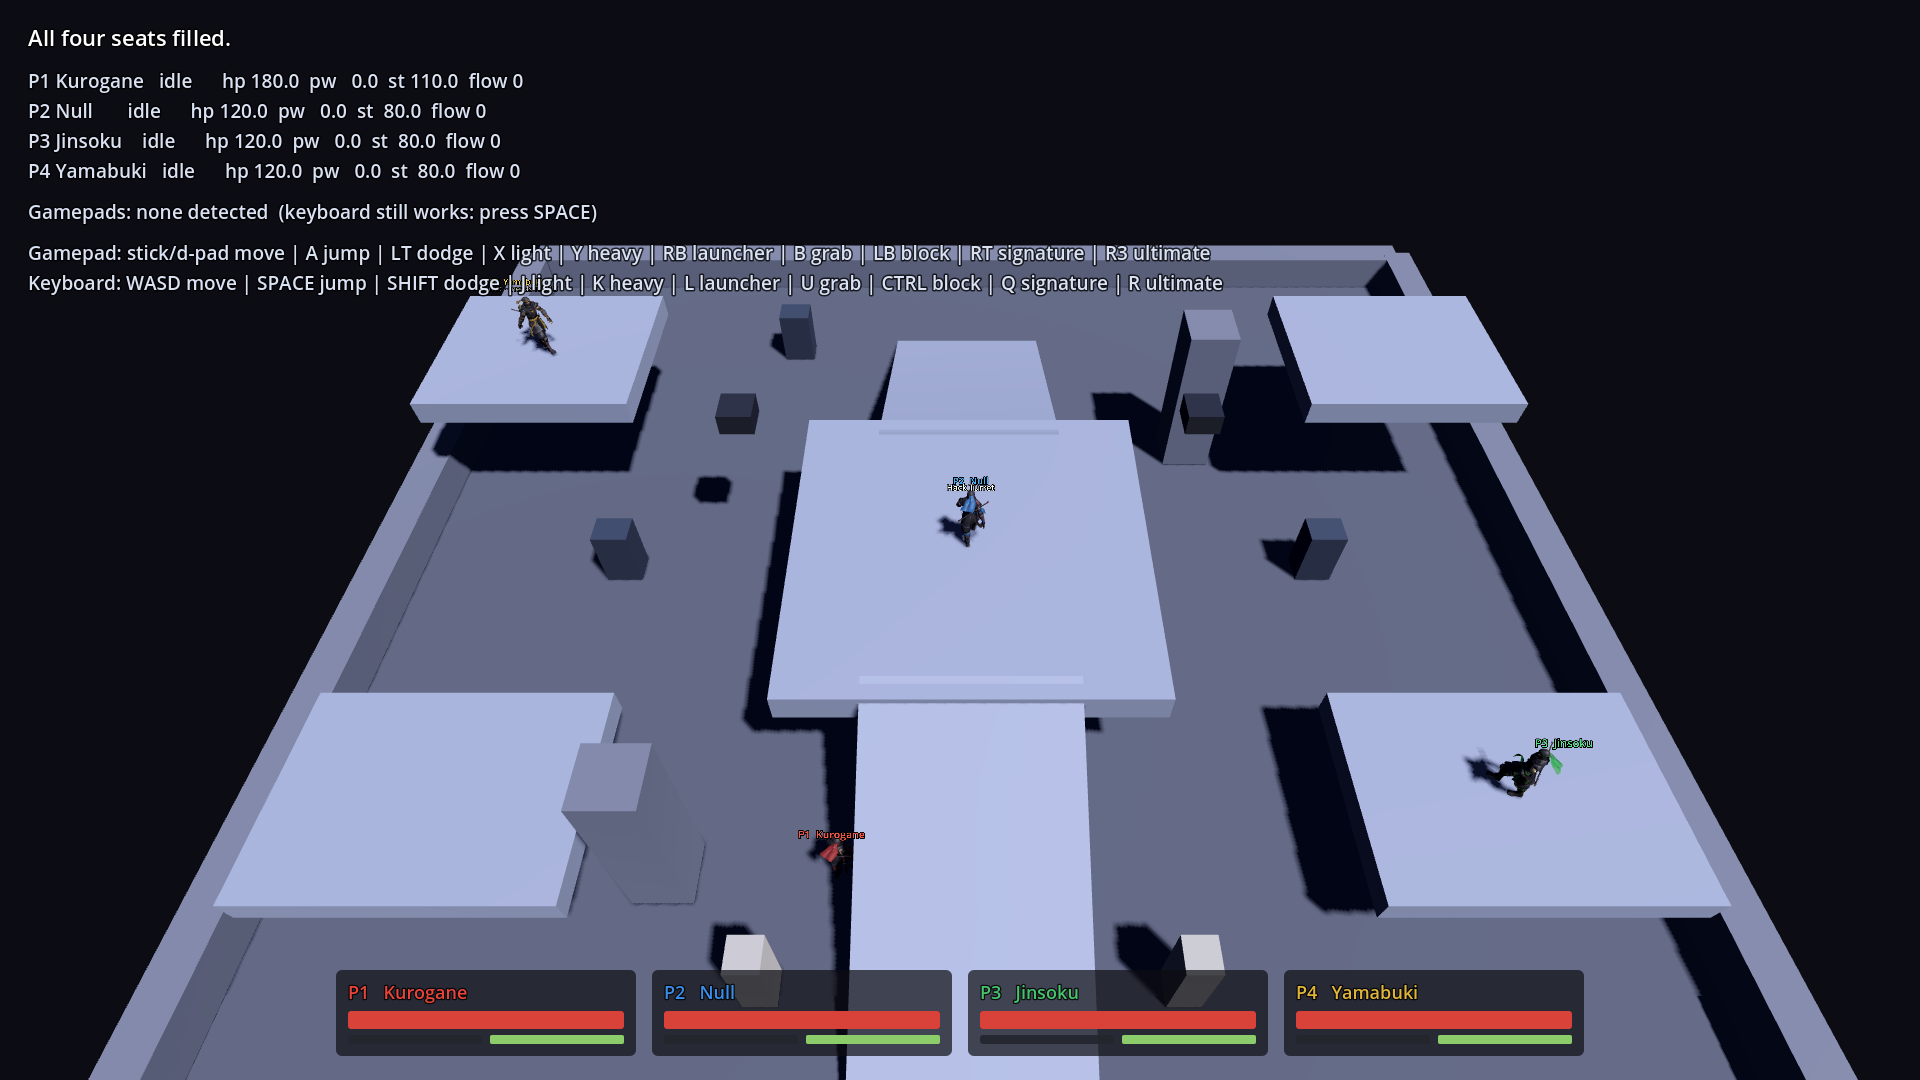
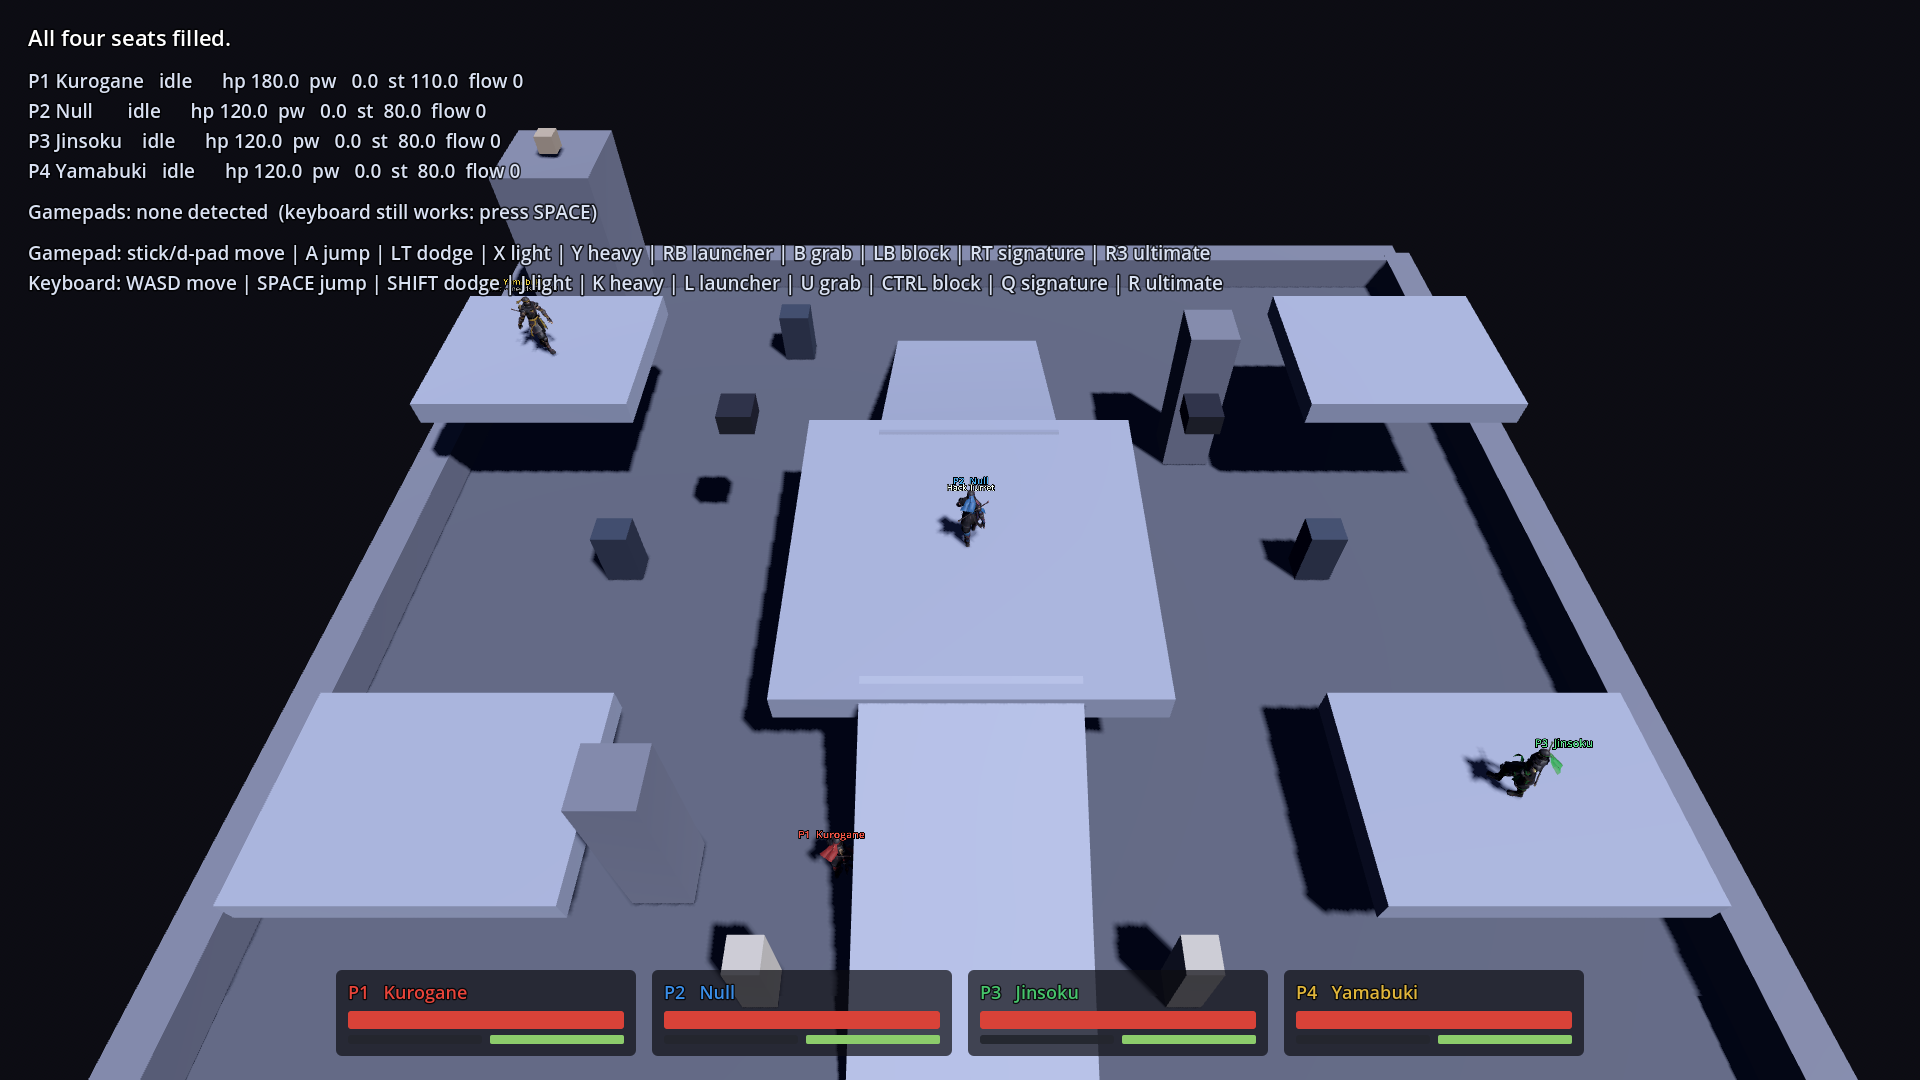
M3: climbing completes the stat-gated arena
Adds the AGILITY verb, and with it every specialist now owns exactly one
thing nobody else can do: Kurogane lifts, Null hacks, Yamabuki climbs.

- Climbable wall surfaces with a mantle at the top, gated at AGILITY 4
  rather than 3. Double jumping already keys off AGILITY 3, so gating the
  climb there would have handed three of the four characters a taller
  version of what they already had.
- A 7m comms tower, past any double jump from the floor, with debris on top
  that is therefore reachable one way only.

Three things this turned up, all of which would have read as 'climbing is
broken' rather than as anything visible in the code:

- Climbing fought the body solver. A tick of climbing covers less ground
  than move_and_slide's floor-snap distance, so snapping dragged the fighter
  back down every frame and the climb went nowhere. Climbing sets the
  transform directly and now skips the solver outright.
- The press that starts a climb also ended it: the same INTERACT edge was
  still just-pressed when the climb state read it as 'let go'. The state
  ignores that input on its entry tick.
- A mantle has to place the fighter, not launch them. Popping up and forward
  with velocity lost its forward momentum to air drag within three ticks of
  a neutral stick, dropping them back down the wall.

Changed region(s): [[0.25, 0.1222, 0.3438, 0.275]]

diff --git a/docs/ROADMAP.md b/docs/ROADMAP.md
@@ -158,7 +158,7 @@ builder. Naming a slice of it in an `AttackDef` is all that connects it to a mov
 
 ---
 
-## M3 — Stats and the interactive arena — **MOSTLY COMPLETE**
+## M3 — Stats and the interactive arena — **COMPLETE**
 **Risk under test:** does stat-gated interaction read as cool rather than arbitrary?
 
 - [x] `CharacterDef` resource with the six stats
@@ -167,7 +167,7 @@ builder. Naming a slice of it in an `AttackDef` is all that connects it to a mov
 - [x] Breakable, spawning debris anyone can then throw
 - [x] Hackable turrets that fire on everyone but the hacker
 - [x] Interaction probe + contextual prompt, **including denied prompts**
-- [ ] Climbable: mantle, wall-climb — still outstanding
+- [x] Climbable walls with a mantle at the top
 
 **Playable result:** the arena is a weapon, and which weapon depends on who you
 picked.
@@ -178,15 +178,16 @@ Every interactable is gated to exactly one of the four staged characters, or to
 everyone. That is the whole teaching design: you learn the system by being
 refused, and learn the roster by seeing what you are refused.
 
-| | Pillar (STR 4) | Rack (STR 2) | Turret (TECH 3) | Debris (STR 1) |
-|---|---|---|---|---|
-| **Kurogane** STR 5 / TECH 1 | ✓ | ✓ | — | ✓ |
-| **Null** STR 1 / TECH 5 | — | — | ✓ | ✓ |
-| **Jinsoku** STR 2 | — | ✓ | — | ✓ |
-| **Yamabuki** STR 2 | — | ✓ | — | ✓ |
+| | Pillar (STR 4) | Rack (STR 2) | Turret (TECH 3) | Tower (AGI 4) | Debris (STR 1) |
+|---|---|---|---|---|---|
+| **Kurogane** STR 5 / AGI 2 / TECH 1 | ✓ | ✓ | — | — | ✓ |
+| **Null** STR 1 / AGI 3 / TECH 5 | — | — | ✓ | — | ✓ |
+| **Jinsoku** STR 2 / AGI 3 | — | ✓ | — | — | ✓ |
+| **Yamabuki** STR 2 / AGI 5 | — | ✓ | — | ✓ | ✓ |
 
-Null is the only character who can hack, and the only one who can neither lift a
-pillar nor break a rack. A STRENGTH 1 fighter who loses every straight exchange
+Each of the three specialists owns exactly one verb nobody else has: Kurogane
+lifts, Null hacks, Yamabuki climbs. Null is also the only one who can neither
+lift a pillar nor break a rack. A STRENGTH 1 fighter who loses every straight exchange
 can still turn the room's turrets on everyone else, which is what makes the
 stat spread worth playing rather than merely worth reading.
 
@@ -206,6 +207,11 @@ stat spread worth playing rather than merely worth reading.
 - **Turrets are hacked at range.** They hang from the ceiling, and requiring the
   hacker to climb up and touch one would be bad fiction and — as the tests
   caught — physically unreachable for the one character meant to use them.
+- **Climbing is pitched at AGILITY 4, not 3.** Double jumping already keys off
+  AGILITY 3, so gating the climb there would have given three of the four
+  characters a taller version of what they already had. At 4 it belongs to the
+  acrobat alone, and the comms tower is 7m — beyond any double jump from the
+  floor — so the thing on top of it is reachable one way only.
 - **Carrying costs speed and your fists.** A pillar is a decision, not a free
   upgrade: you move at 62% speed and cannot attack until you throw it.
 - **Dying returns what you were holding.** Otherwise a heavy prop could be
@@ -213,6 +219,18 @@ stat spread worth playing rather than merely worth reading.
 
 ### What M3 turned up
 
+- **Climbing fought the body solver.** A tick of climbing covers less ground
+  than `move_and_slide`'s floor-snap distance, so snapping dragged the fighter
+  back down every frame and the climb went nowhere. Climbing sets the transform
+  directly, so it now skips the solver outright.
+- **The press that starts a climb also ended it.** The same INTERACT edge that
+  put a fighter on the wall was still just-pressed when the climb state read it
+  as "let go", so the fighter bounced straight off. The state ignores that input
+  on its entry tick.
+- **A mantle has to place you, not launch you.** Popping the fighter up and
+  forward with velocity lost its forward momentum to air drag within three ticks
+  of a neutral stick, dropping them back down the wall. The mantle now puts them
+  on the surface.
 - **A check that passed for the wrong reason.** "Kurogane cannot hack the
   turret" passed while the turret was unreachable by anyone — nothing on the
   floor could target something on the ceiling. It now asserts he is in range

diff --git a/README.md b/README.md
@@ -9,13 +9,13 @@ lift, climb, break, or hack is gated by your character's stats.
 
 ## Status
 
-**M3 mostly complete** — four players join with gamepads or keyboard and fight
-in a grey-box arena under a single shared camera: punch-punch-kick chains, heavy
-and launcher confirms, blocking, dodging, juggles, knockdowns and wall splats,
-with timing-based rhythm bonuses. The arena is stat-gated: Kurogane rips out
-concrete pillars and throws them, Null hacks the ceiling turrets, and each is
-refused what the other can do. Climbing is the one M3 item still outstanding.
-See [`docs/ROADMAP.md`](docs/ROADMAP.md).
+**M3 complete** — four players join with gamepads or keyboard and fight in a
+grey-box arena under a single shared camera: punch-punch-kick chains, heavy and
+launcher confirms, blocking, dodging, juggles, knockdowns and wall splats, with
+timing-based rhythm bonuses. The arena is stat-gated: Kurogane rips out concrete
+pillars and throws them, Null hacks the ceiling turrets, Yamabuki climbs the
+comms tower, and each is refused what the others can do. Match flow and stocks
+come next in M4. See [`docs/ROADMAP.md`](docs/ROADMAP.md).
 
 The same pillar, offered to the fighter who qualifies and refused — with the
 requirement named — to the one who does not:
@@ -126,9 +126,15 @@ you would need. Being refused is how you learn the roster.
 | | Gate | Who |
 |---|---|---|
 | Concrete pillar — lift and throw | STRENGTH 4 | Kurogane only |
-| Server rack — break for debris | STRENGTH 2 | everyone but Null |
+| Comms tower — climb | AGILITY 4 | Yamabuki only |
 | Ceiling turret — hack | TECH 3 | Null only |
+| Server rack — break for debris | STRENGTH 2 | everyone but Null |
 | Debris — lift and throw | STRENGTH 1 | everyone |
+
+Each specialist owns exactly one verb nobody else has. The tower is 7 metres —
+past any double jump — so what sits on top of it is reachable one way only.
+
+![Climbing the comms tower](docs/images/m3-climb.png)
 
 Carrying something costs 62% of your speed and the use of your fists until you
 throw it. A hacked turret fires on everyone except the hacker.
